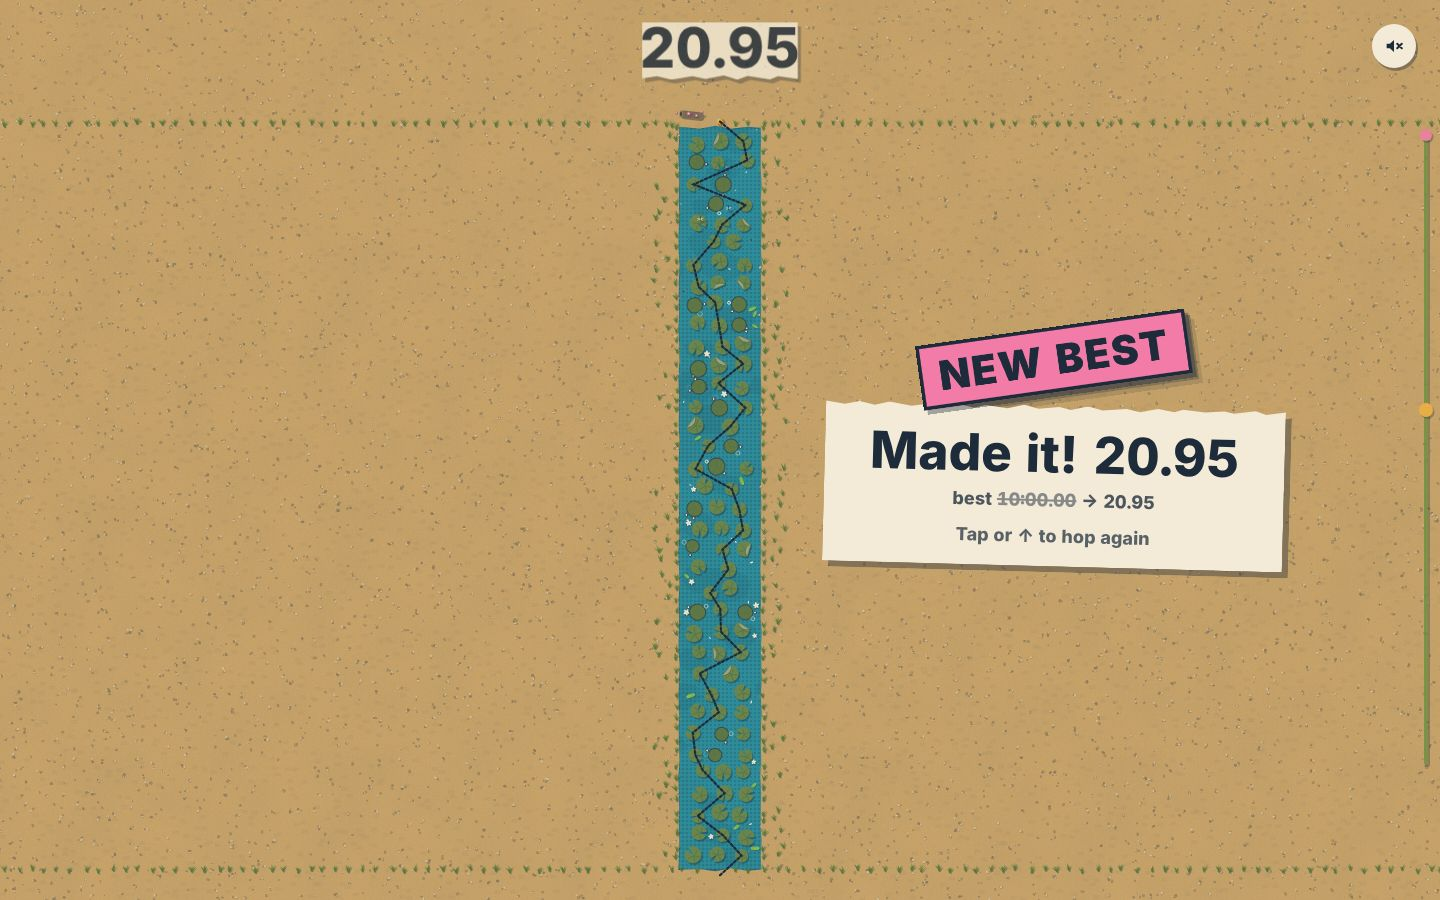
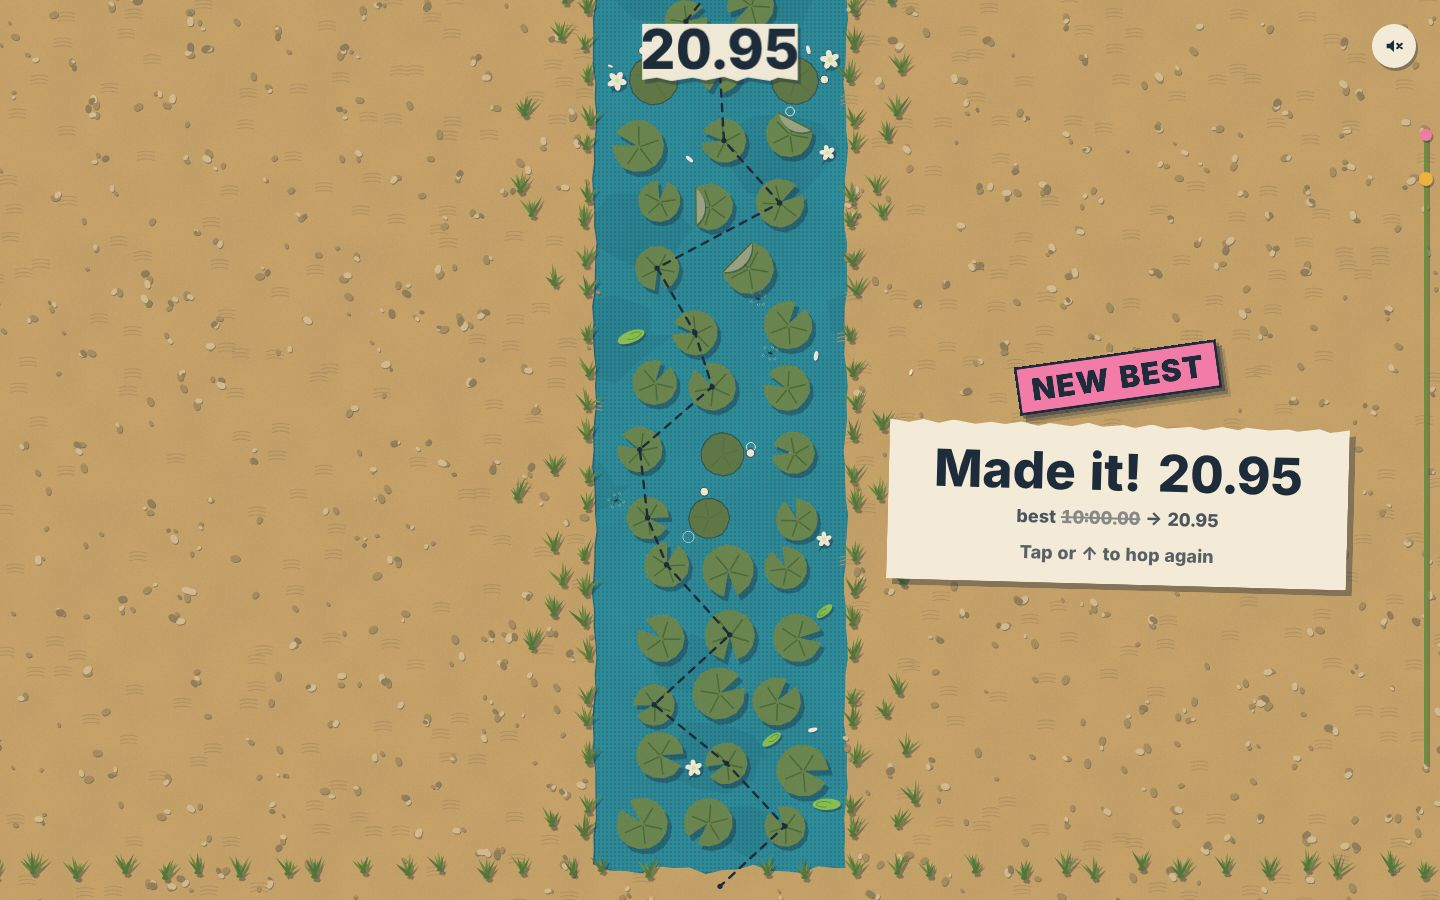
M-0002: WO-003 fix r2 (desktop win framing)
Claude-Session: https://claude.ai/code/session_01WqXox3iJk842Krqfm64NXK

diff --git a/projects/frog-chase/src/render/renderer.ts b/projects/frog-chase/src/render/renderer.ts
@@ -8,7 +8,7 @@
  */
 import type { Pad, Renderer, SimEvent, SimState, Slot, Vec2, ViewState } from '../contracts';
 import { heartbeatPhase } from '../sim/sim';
-import { createCamera, createView, stepCamera, sx, sy, updateView, winGoal, wx, wy, DANGER_ZOOM } from './camera';
+import { createCamera, createView, stepCamera, sx, sy, updateView, winGoal, winPan, wx, wy, DANGER_ZOOM, WIN_WIDE } from './camera';
 import { advancePresentation } from './clock';
 import { bottomBandAlpha, eyeScale, jawRad, vignetteAlpha } from './danger';
 import { DIM_AHEAD, DIM_BEHIND, SHADOW, rgba } from './color';
@@ -438,7 +438,7 @@ export function createRenderer(canvas: HTMLCanvasElement): Renderer {
         for (let i = 0; i < 24; i++) {
           const a = (i / 24) * TAU + rand3(e.tick, i, 8) * 0.25;
           const lifeS = 0.9;
-          const sp = 16 + 18 * rand3(e.tick, i, 10);
+          const sp = 34 + 30 * rand3(e.tick, i, 10); // a 360° spray that clears the frog by ~+0.3 s
           const peak = 3 + 4 * rand3(e.tick, i, 11);
           const g = (8 * peak) / (lifeS * lifeS) * 0.6;
           const k = particles.spawn(PK.Petal, pose.x, pose.y, Math.cos(a) * sp, Math.sin(a) * sp, 0.5, Math.sqrt(2 * g * peak), g, lifeS, 2.5 + rand3(e.tick, i, 12) * 0.8);
@@ -471,6 +471,18 @@ export function createRenderer(canvas: HTMLCanvasElement): Renderer {
     out.x = sim.trail[i]!.x;
     out.y = sim.trail[i]!.y;
     return out;
+  }
+
+  /** World y of the route at arc length a (trail polyline). */
+  function routeYAt(sim: SimState, a: number): number {
+    const arc = sim.trailArc, tr = sim.trail;
+    for (let i = 1; i < arc.length; i++) {
+      if (arc[i]! < a) continue;
+      const seg = arc[i]! - arc[i - 1]!;
+      const f = seg > 0 ? (a - arc[i - 1]!) / seg : 1;
+      return lerp(tr[i - 1]!.y, tr[i]!.y, f);
+    }
+    return tr[tr.length - 1]!.y;
   }
 
   function padAt(sim: SimState, p: Vec2): number {
@@ -634,6 +646,12 @@ export function createRenderer(canvas: HTMLCanvasElement): Renderer {
         focusY = goal.focusY;
         zoom = goal.zoom;
         cut = reduced;
+        const e = jt - winAt;
+        if (w >= 1024 && !reduced && e > WIN_WIDE.traceAt && e < WIN_WIDE.returnAt) {
+          // Pan with the trace's drawing head so the river fills the frame (F-012, F-019).
+          const u = clamp01((e - WIN_WIDE.traceAt) / WIN_WIDE.traceMs);
+          focusY = winPan(w, h, zoom, routeYAt(sim, sim.trailArc[sim.trailArc.length - 1]! * (1 - EASE_UI(u))), goal.focusY, -6);
+        }
       }
       stepCamera(camera, { focusY, zoom, cut }, dts);
       shake.step(dts, shakeOff);
@@ -996,7 +1014,8 @@ export function createRenderer(canvas: HTMLCanvasElement): Renderer {
       // ── Win route trace (§7.5, polish 21): dashed ink through every landed pad centre, finish → start.
       probe.traceProgress = 0;
       if (winAt >= 0 && route) {
-        const u = clamp01((jt - winAt - 120) / 700);
+        const wide = w >= 1024 && !reduced;
+        const u = wide ? clamp01((jt - winAt - WIN_WIDE.traceAt) / WIN_WIDE.traceMs) : clamp01((jt - winAt - 120) / 700);
         probe.traceProgress = u;
         const arc = sim.trailArc;
         const total = arc[arc.length - 1] ?? 0;

diff --git a/projects/frog-chase/src/render/camera.ts b/projects/frog-chase/src/render/camera.ts
@@ -99,23 +99,30 @@ export const sy = (v: View, y: number): number => v.ay - (y - v.camY) * v.k + v.
 export const wx = (v: View, px: number): number => 50 + (px - v.cx - v.shakeX) / v.k;
 export const wy = (v: View, py: number): number => v.camY - (py - v.ay - v.shakeY) / v.k;
 
-/** HUD clearance above the win route (timer tab + best), px. */
-export const WIN_TOP_PX = 112;
 /**
- * Win framing (§7.5 step 4). Wide screens (≥ 1024 px) fit the whole route, start to finish, below the HUD
- * (F-012). Narrower screens zoom to the spec floor (0.4× / 0.33× under 700 px) with the finish 22% down.
- * `topY` / `bottomY` are the world y extent of the route (finish bank, start bank).
+ * Win framing (§7.5 step 4): zoom to the spec floor (0.4×, 0.33× under 700 px) with the finish bank 22%
+ * down. Wide screens (≥ 1024 px) also pan along the route while it is inked (`winPan`), so the river fills
+ * the frame instead of a whole-route thumbnail (F-012, F-019).
  */
 export function winGoal(w: number, h: number, topY: number, bottomY: number): { zoom: number; focusY: number } {
   const s = baseScale(w, h);
-  if (w >= 1024) {
-    const k = (h - WIN_TOP_PX - 24) / (topY - bottomY);
-    const zoom = Math.min(1, k / s);
-    return { zoom, focusY: topY - (h * ANCHOR - WIN_TOP_PX) / (s * zoom) };
-  }
   const floor = w < 700 ? 0.33 : 0.4;
   const fit = h / ((topY - bottomY) * s);
   const zoom = Math.max(floor, Math.min(1, fit));
   const visible = h / (s * zoom);
   return { zoom, focusY: topY - visible * (ANCHOR - 0.22) };
+}
+
+/** Wide-screen win: when the trace runs and for how long (ms after the win), and the pan's return. */
+export const WIN_WIDE = { traceAt: 300, traceMs: 1200, returnAt: 2000 } as const;
+
+/**
+ * Camera focus that keeps the trace's drawing head at mid-screen, clamped so the view never leaves the
+ * river (finish framing at the top, start bank at the bottom).
+ */
+export function winPan(w: number, h: number, zoom: number, headY: number, finishFocus: number, bottomY: number): number {
+  const k = baseScale(w, h) * zoom;
+  const centred = headY - (h * (ANCHOR - 0.5)) / k;
+  const lowest = bottomY + (h * (1 - ANCHOR)) / k;
+  return Math.min(finishFocus, Math.max(lowest, centred));
 }

diff --git a/projects/frog-chase/tests/unit/render/camera.test.ts b/projects/frog-chase/tests/unit/render/camera.test.ts
@@ -1,5 +1,5 @@
 import { describe, expect, it } from 'vitest';
-import { ANCHOR, baseScale, createCamera, createView, springStep, stepCamera, sx, sy, updateView, WIN_TOP_PX, winGoal, wx, wy } from '../../../src/render/camera';
+import { ANCHOR, baseScale, createCamera, createView, springStep, stepCamera, sx, sy, updateView, winGoal, winPan, wx, wy } from '../../../src/render/camera';
 
 describe('camera (§4.6)', () => {
   it('scale is min(vw/100, vh/150): 3.75 px/wu at 375×812, 6 at 1440×900', () => {
@@ -46,16 +46,21 @@ describe('camera (§4.6)', () => {
     expect(wy(v, sy(v, 412))).toBeCloseTo(412, 9);
   });
 
-  it('win framing: wide screens fit the whole route below the HUD (F-012); narrower ones use the 0.4× / 0.33× floor', () => {
+  it('win framing: 0.4× (desktop) / 0.33× (narrow); wide screens pan with the trace inside the river (F-019)', () => {
     const top = 37 * 26 + 14, bottom = -6;
-    const g = winGoal(1440, 900, top, bottom);
-    const cam = createCamera();
-    stepCamera(cam, { focusY: g.focusY, zoom: g.zoom, cut: true }, 0);
-    const v = createView();
-    updateView(v, 1440, 900, cam, 0, 0);
-    expect(sy(v, top)).toBeCloseTo(WIN_TOP_PX, 6);
-    expect(sy(v, bottom)).toBeCloseTo(900 - 24, 6);
-    expect(winGoal(800, 900, top, bottom).zoom).toBe(0.4);
+    expect(winGoal(1440, 900, top, bottom).zoom).toBe(0.4);
+    expect(winGoal(1920, 1080, top, bottom).zoom).toBe(0.4);
     expect(winGoal(375, 812, top, bottom).zoom).toBe(0.33);
+    const fin = winGoal(1440, 900, top, bottom).focusY;
+    const cam = createCamera();
+    const v = createView();
+    for (const head of [top, 600, 300, bottom]) {
+      const f = winPan(1440, 900, 0.4, head, fin, bottom);
+      stepCamera(cam, { focusY: f, zoom: 0.4, cut: true }, 0);
+      updateView(v, 1440, 900, cam, 0, 0);
+      expect(f).toBeLessThanOrEqual(fin);
+      expect(sy(v, bottom)).toBeGreaterThanOrEqual(900 - 1e-6);
+      if (head === 600 || head === 300) expect(sy(v, head)).toBeCloseTo(450, 6);
+    }
   });
 });

diff --git a/projects/frog-chase/src/ui/styles.ts b/projects/frog-chase/src/ui/styles.ts
@@ -68,7 +68,8 @@ export function uiCss(): string {
 #ui .ly-cardwrap.ly-bottom { top: auto; bottom: calc(7% + env(safe-area-inset-bottom)); transform: translate(-50%, 0); }
 @media (min-width: 700px) { #ui .ly-cardwrap { width: 460px; } }
 /* Wide win: the whole route is on screen, so the card docks on the right bank, clear of the river (F-012). */
-@media (min-width: 1024px) { #ui .ly-cardwrap.ly-bottom { left: calc(50% + 104px); top: 54%; bottom: auto; transform: translate(0, -50%); width: min(460px, calc(50vw - 136px)); } }
+@media (min-width: 1024px) { #ui .ly-cardwrap.ly-bottom { --col: calc(20 * min(1vw, 100vh / 150)); left: calc(50% + var(--col) + 48px);
+  top: 56%; bottom: auto; transform: translate(0, -50%); width: min(460px, calc(50vw - var(--col) - 72px)); } }
 #ui .ly-card { background: ${C.paper}; clip-path: ${tornTop}; padding: 22px 20px 18px; transform: rotate(1.5deg); text-align: center;
   opacity: 0; translate: 0 24px; transition: opacity 180ms ${CSS_EASE.ui}, translate 180ms ${CSS_EASE.ui}; }
 #ui .ly-card.ly-in { opacity: 1; translate: 0 0; }

diff --git a/bureau/missions/M-0002-frog-chase/log.md b/bureau/missions/M-0002-frog-chase/log.md
@@ -79,3 +79,5 @@ Chronological record kept by `bureau`. Append with `python3 bureau/bin/bureau lo
 - `2026-11-21T04:13:28Z` **polish-critic** — F-018 verified: Legs shorter and stubbier through the air phase. bureau/missions/M-0002-frog-chase/evidence/polish/m-02-hop-burst.jpg → bureau/missions/M-0002-frog-chase/evidence/polish/v1/m-02-hop-burst.jpg
 - `2026-11-21T04:13:28Z` **polish-critic** — F-012 open: Asks met (whole route fits, card docked right, no veil), but the fit-to-route zoom (≈0.13x) makes the desktop win worse: the river is an 80 px strip, about 94% of the 1440x900 frame is sand, pads are ≈10 px dots, and the bloom burst is a ≈12 px pink blob. My r1 target (1) was wrong. Should be: hold zoom at 0.33-0.4x (pads ≥ 36 px) and pan the camera from start to finish while the route draws (700→1200 ms, ease 'ui'). End framed on the finish bank with the card docked on the right bank, and make the bloom petals ≥ 4 wu with 24 petals spread ≥ 1.5 pad radii, drawn at screen scale. Evidence: bureau/missions/M-0002-frog-chase/evidence/polish/v1/d-11-win-newbest.jpg, bureau/missions/M-0002-frog-chase/evidence/polish/v1/d-11-win-burst.jpg
 - `2026-11-21T04:13:59Z` **ceo** — Verification r1: 16 verified; F-012 reopened + F-019 new (desktop win zoom). WO-003 resumed for fix r2.
+- `2026-11-21T04:24:07Z` **engineer** — F-012 resolved: Wide (≥1024) win zoom is now 0.4× (was 0.13×, camera.ts winGoal); the camera holds on the finish for the bloom burst, pans with the trace head down the route over 1.2 s (winPan, clamped to the river), then returns to the finish; card docked beside the wider river; petal spray faster. Mobile unchanged (0.33×). Shots: bureau/missions/M-0002-frog-chase/evidence/WO-003/look-11-win-desktop.jpg (1440×900, +1.6 s), bureau/missions/M-0002-frog-chase/evidence/WO-003/r1/look-11-win-wide.jpg (1920×1080), bureau/missions/M-0002-frog-chase/evidence/WO-003/r1/look-11-win-desktop-settled.jpg, bureau/missions/M-0002-frog-chase/evidence/WO-003/r1/d-win-burst-350ms.jpg. look-shots '11 win … zoom 0.4', camera.test winPan; PORT=4395 npm run verify → all steps passed
+- `2026-11-21T04:24:07Z` **engineer** — F-019 resolved: Wide (≥1024) win zoom is now 0.4× (was 0.13×, camera.ts winGoal); the camera holds on the finish for the bloom burst, pans with the trace head down the route over 1.2 s (winPan, clamped to the river), then returns to the finish; card docked beside the wider river; petal spray faster. Mobile unchanged (0.33×). Shots: bureau/missions/M-0002-frog-chase/evidence/WO-003/look-11-win-desktop.jpg (1440×900, +1.6 s), bureau/missions/M-0002-frog-chase/evidence/WO-003/r1/look-11-win-wide.jpg (1920×1080), bureau/missions/M-0002-frog-chase/evidence/WO-003/r1/look-11-win-desktop-settled.jpg, bureau/missions/M-0002-frog-chase/evidence/WO-003/r1/d-win-burst-350ms.jpg. look-shots '11 win … zoom 0.4', camera.test winPan; PORT=4395 npm run verify → all steps passed

diff --git a/bureau/missions/M-0002-frog-chase/reports/WO-003.md b/bureau/missions/M-0002-frog-chase/reports/WO-003.md
@@ -35,11 +35,14 @@ Best 4: `evidence/WO-003/`.
 Evidence: `evidence/WO-003/r1/`. `PORT=4395 npm run verify` → all 16 steps passed (look-shots 36, look-feel 22).
 - F-007: vellum removed; wordmark on the pond (§7.1).
 - F-008: other pads dim to ~80% value (eased 120 ms); reachable keep full value + paper rim. Grayscale test still separates.
-- F-009: 0 dragonfly-over-chip frames over full crossings.
+- F-009: 0 dragonfly-over-chip frames.
 - F-010: 240 droplets, 0 on a pad.
 - F-011: 0.45τ vignette + lub band.
 - F-012: whole route fits on wide screens, card docked right, no veil.
 - F-013: snout tip 11.7 wu behind the shadow.
 - F-014: bigger bubbles; "no notch" callout.
-- F-015–F-018 fixed (hover, copy, log moved, legs).
+- F-015–F-018: hover, copy, log, legs.
 - CEO flank: jaws and now also ✕ stay drawn on every squash/air frame while flanked (15/15). F-006 closures hoisted.
+
+## Fix r2
+- F-012/F-019: desktop win zoom 0.13× → 0.4×. Holds on the finish for the bloom burst, pans with the trace over 1.2 s, returns. Mobile unchanged. `evidence/WO-003/look-11-win-desktop.jpg`, `r1/look-11-win-wide.jpg`. Verify (port 4395) passed.
